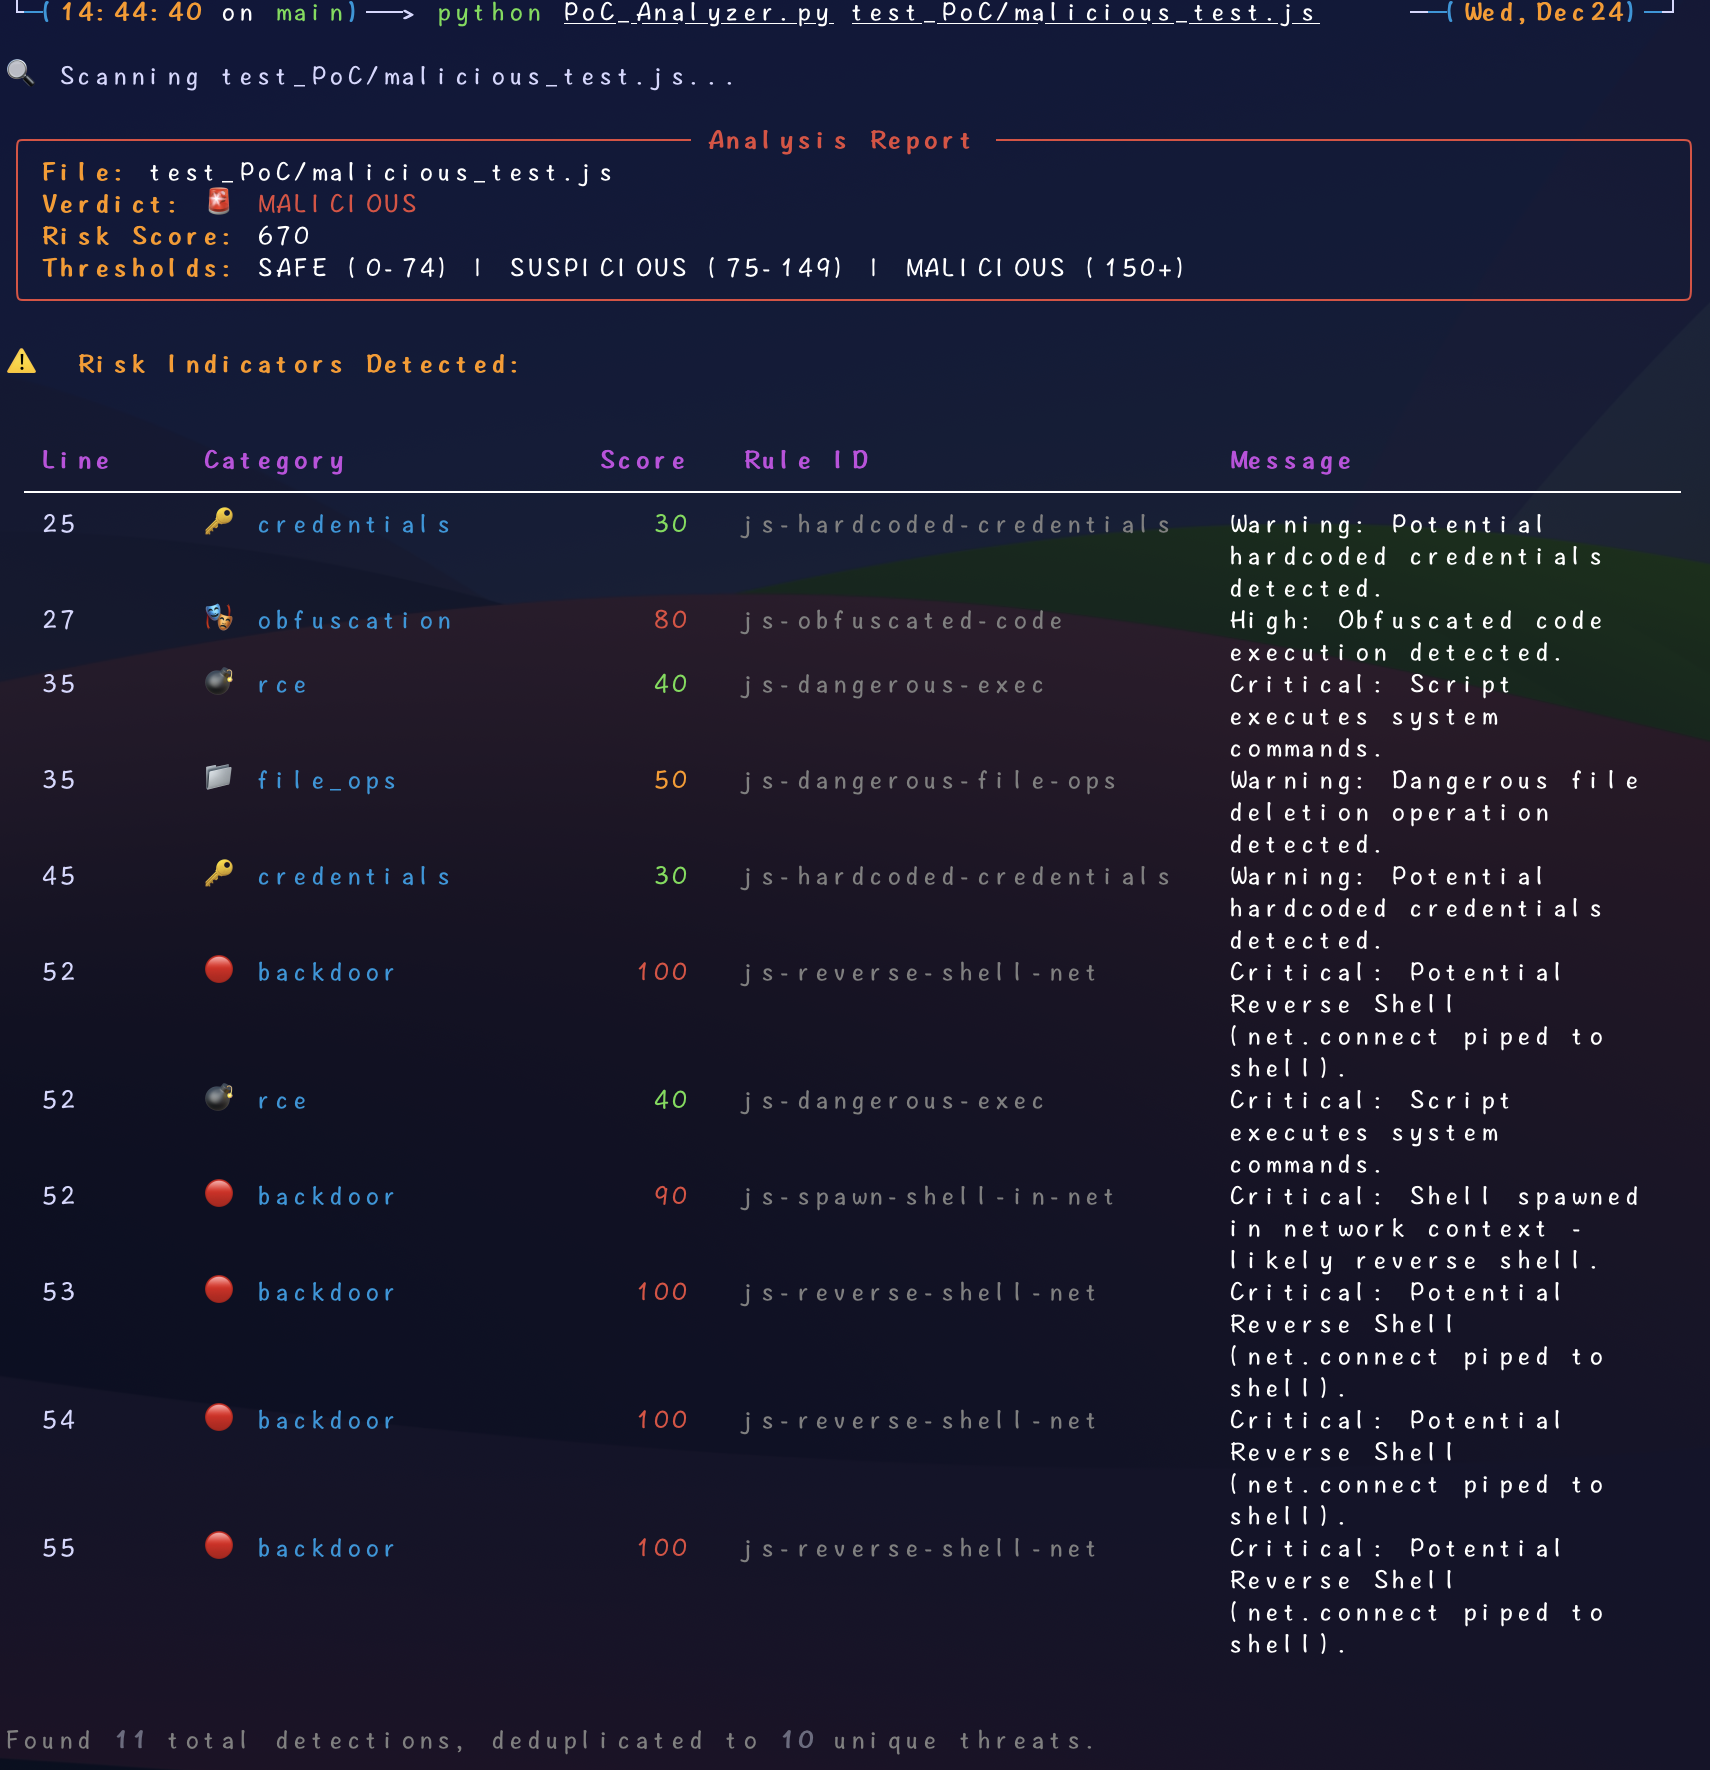
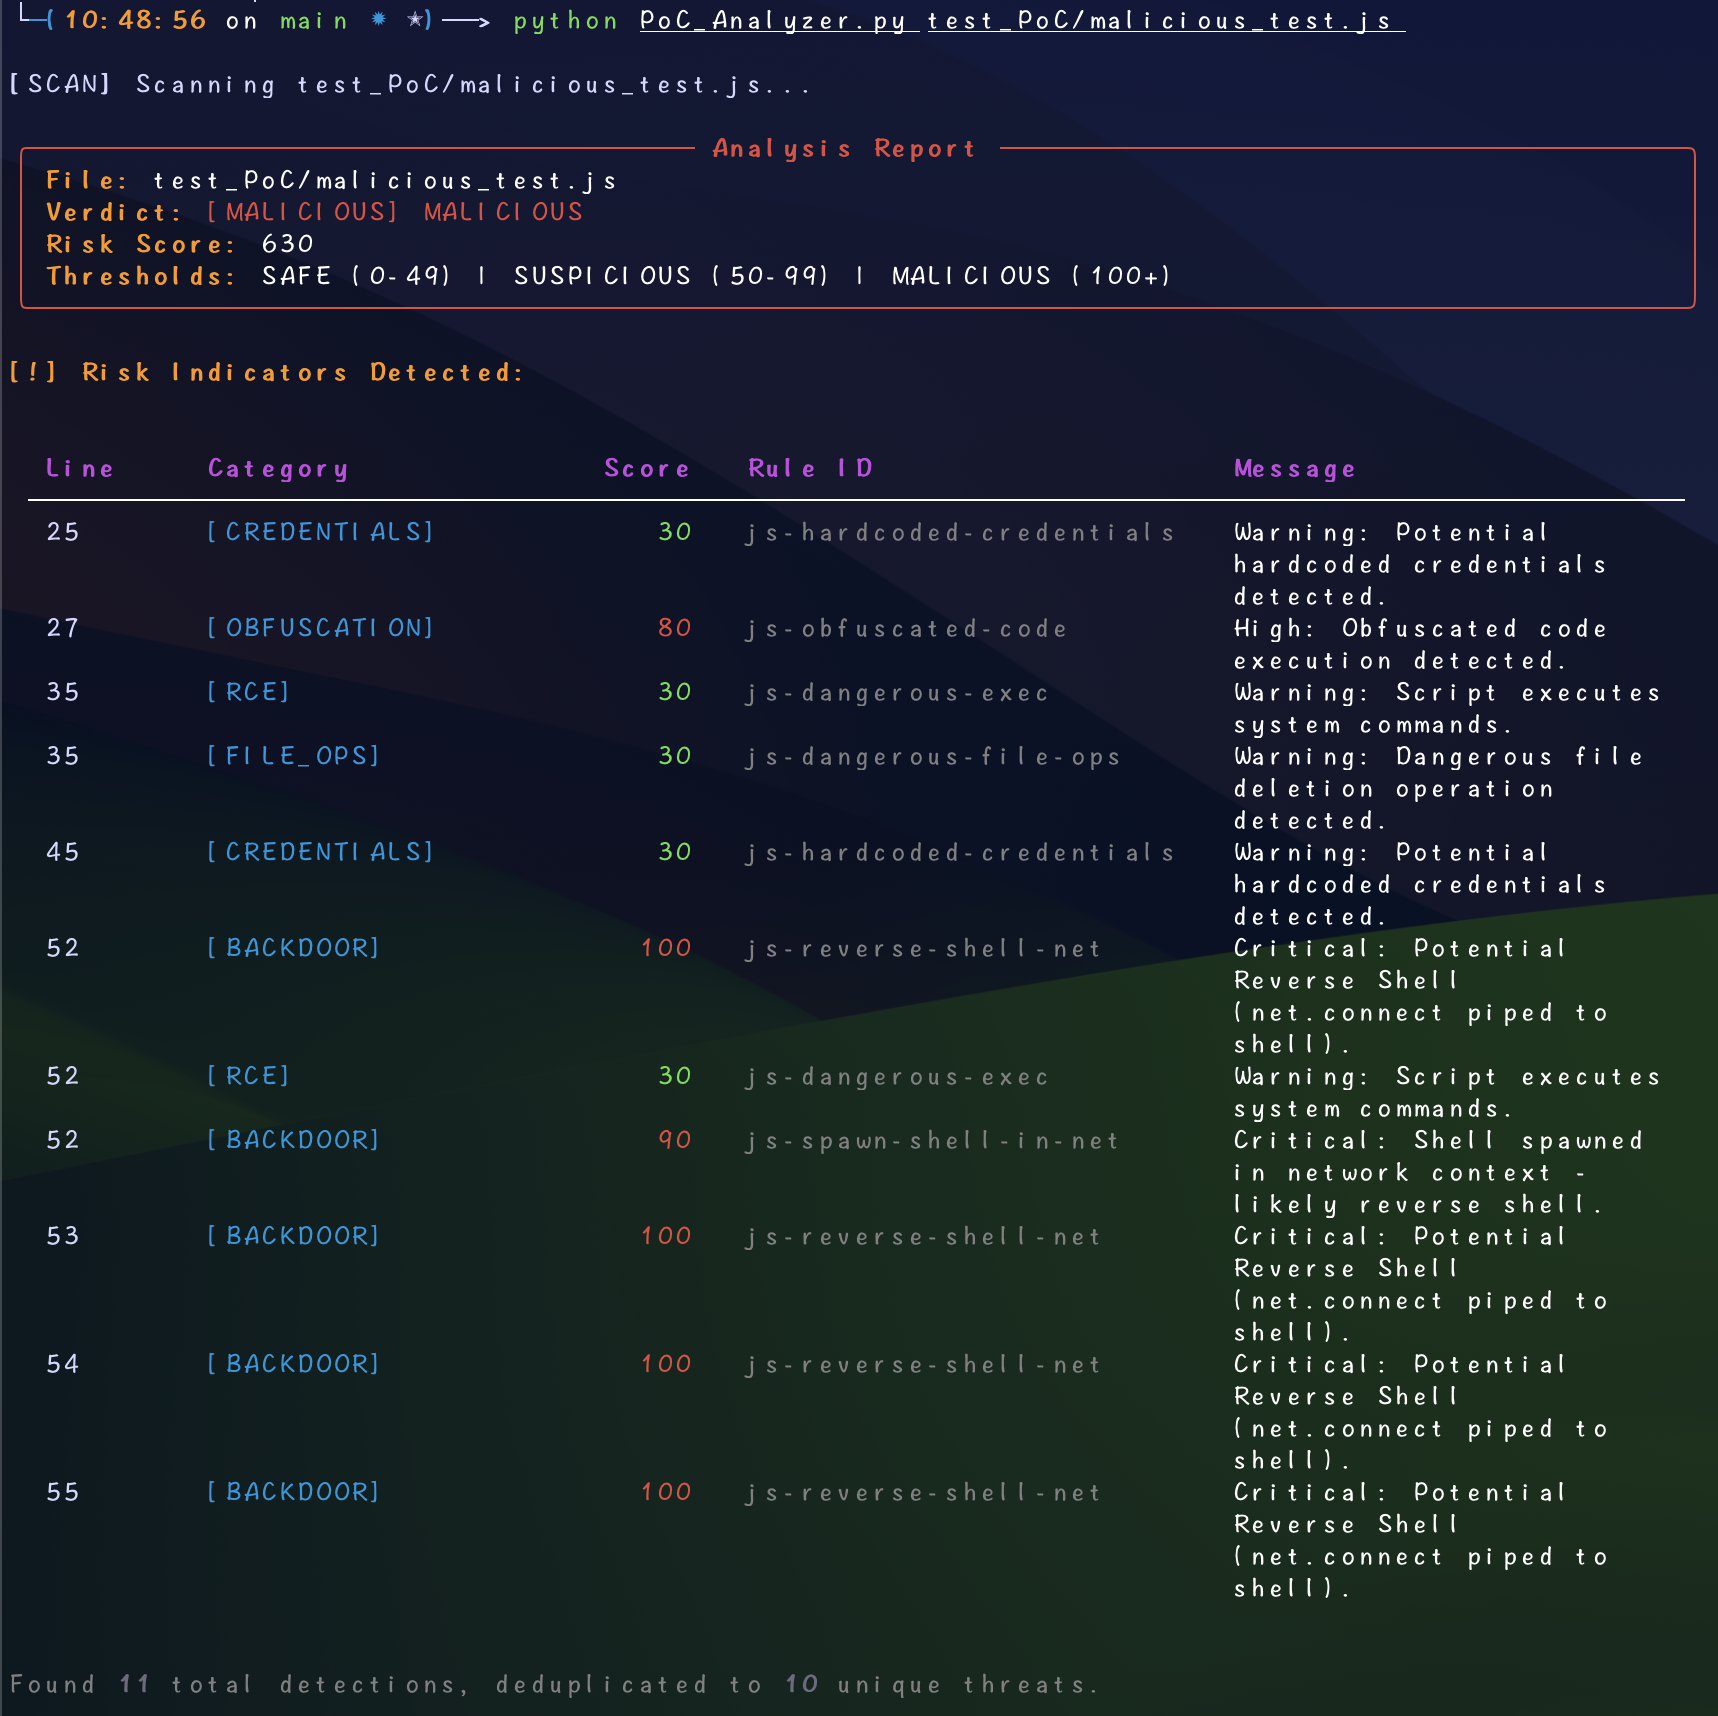
Add: Dockerfile && Update README

diff --git a/PoC_Analyzer.py b/PoC_Analyzer.py
@@ -62,7 +62,7 @@ class PoCAnalyzer:
             self.rule_config = os.path.join("rules", rule_config)
         else:
             self.rule_config = rule_config
-            console.print(f"[yellow]⚠ Warning: Config '{rule_config}' not found locally or in rules/ dir.[/yellow]")
+            console.print(f"[yellow][WARNING] Warning: Config '{rule_config}' not found locally or in rules/ dir.[/yellow]")
 
         self.threshold = threshold
         self.valid_extensions: Set[str] = self.DEFAULT_EXTENSIONS
@@ -224,7 +224,7 @@ class PoCAnalyzer:
         """Recursively scan a directory."""
         if console is None: console = Console()
         
-        console.print(f"\n[bold cyan]📂 Scanning Directory: {directory}[/bold cyan]\n")
+        console.print(f"\n[bold cyan][DIRECTORY] Scanning Directory: {directory}[/bold cyan]\n")
         
         stats = {"MALICIOUS": 0, "SUSPICIOUS": 0, "SAFE": 0, "SKIPPED": 0}
         results = []
@@ -249,7 +249,7 @@ class PoCAnalyzer:
 
         # Print Summary Table at the end
         if results:
-            console.print("\n[bold]📊 Directory Scan Summary[/bold]")
+            console.print("\n[bold][SUMMARY] Directory Scan Summary[/bold]")
             summary_table = Table(box=box.SIMPLE_HEAD)
             summary_table.add_column("File", style="cyan")
             summary_table.add_column("Verdict", justify="center")
@@ -275,11 +275,11 @@ class PoCAnalyzer:
         console.print(f"\n[dim]Scanned {total} files.[/dim]")
         
         if stats["MALICIOUS"] > 0:
-            console.print(f"[bold red]🚨 Directory Scan Complete: Found {stats['MALICIOUS']} malicious files![/bold red]")
+            console.print(f"[bold red][MALICIOUS] Directory Scan Complete: Found {stats['MALICIOUS']} malicious files![/bold red]")
         elif stats["SUSPICIOUS"] > 0:
-            console.print(f"[bold yellow]⚠  Directory Scan Complete: Found {stats['SUSPICIOUS']} suspicious files.[/bold yellow]")
+            console.print(f"[bold yellow][WARNING] Directory Scan Complete: Found {stats['SUSPICIOUS']} suspicious files.[/bold yellow]")
         else:
-            console.print(f"[bold green]✅ Directory Scan Complete: No threats found.[/bold green]")
+            console.print(f"[bold green][SAFE] Directory Scan Complete: No threats found.[/bold green]")
         
         return results
 
@@ -300,13 +300,13 @@ class PoCAnalyzer:
         
         if verdict == "MALICIOUS":
             verdict_color = "red"
-            verdict_icon = "🚨"
+            verdict_icon = "[MALICIOUS]"
         elif verdict == "SUSPICIOUS":
             verdict_color = "yellow"
-            verdict_icon = "⚠"
+            verdict_icon = "[SUSPICIOUS]"
         else:
             verdict_color = "green"
-            verdict_icon = "✅"
+            verdict_icon = "[SAFE]"
         
         # Create summary panel
         summary = f"""[bold]File:[/bold] {report['filepath']}
@@ -317,7 +317,7 @@ class PoCAnalyzer:
         console.print(Panel(summary, title="[bold]Analysis Report[/bold]", border_style=verdict_color, box=box.ROUNDED))
         
         if report['findings']:
-            console.print(f"\n[bold yellow]⚠  Risk Indicators Detected:[/bold yellow]\n")
+            console.print(f"\n[bold yellow][!] Risk Indicators Detected:[/bold yellow]\n")
             
             # Create findings table
             table = Table(show_header=True, header_style="bold magenta", box=box.SIMPLE)
@@ -338,22 +338,22 @@ class PoCAnalyzer:
                 
                 # Category emoji
                 category_map = {
-                    "backdoor": "🔴 backdoor",
-                    "rce": "💣 rce",
-                    "obfuscation": "🎭 obfuscation",
-                    "file_manipulation": "📁 file_ops",
-                    "credential_leak": "🔑 credentials",
-                    "deserialization": "⚠ deserialize",
-                    "code_injection": "💉 code_inject",
-                    "network": "🌐 network",
-                    "info_leak": "ℹ info_leak",
-                    "abuse": "🚫 abuse",
-                    "memory_corruption": "💥 memory",
-                    "privilege_escalation": "👑 priv_esc",
-                    "evasion": "🥷 evasion",
-                    "weak_crypto": "🔓 weak_crypto",
-                    "sql_injection": "💉 sql_inject",
-                    "xxe": "📄 xxe"
+                    "backdoor": "[BACKDOOR]",
+                    "rce": "[RCE]",
+                    "obfuscation": "[OBFUSCATION]",
+                    "file_manipulation": "[FILE_OPS]",
+                    "credential_leak": "[CREDENTIALS]",
+                    "deserialization": "[DESERIALIZATION]",
+                    "code_injection": "[CODE_INJECTION]",
+                    "network": "[NETWORK]",
+                    "info_leak": "[INFO_LEAK]",
+                    "abuse": "[ABUSE]",
+                    "memory_corruption": "[MEMORY]",
+                    "privilege_escalation": "[PRIV_ESC]",
+                    "evasion": "[EVASION]",
+                    "weak_crypto": "[WEAK_CRYPTO]",
+                    "sql_injection": "[SQL_INJECTION]",
+                    "xxe": "[XXE]"
                 }
                 category_display = category_map.get(f['category'], f['category'])
                 
@@ -373,7 +373,7 @@ class PoCAnalyzer:
             dedup_info = f"[dim]Found {total_count} total detections, deduplicated to {unique_count} unique threats.[/dim]"
             console.print(f"\n{dedup_info}\n")
         else:
-            console.print("\n[green]✅ No threats detected.[/green]\n")
+            console.print("\n[green][SAFE] No threats detected.[/green]\n")
     
     def print_directory_summary(self, reports: list[Dict[str, Any]], console: Console = None):
         """
@@ -407,7 +407,7 @@ class PoCAnalyzer:
                 safe_files += 1
         
         if not has_findings:
-            console.print("[green]✅ No individual threats to report.[/green]\n")
+            console.print("[green][SAFE] No individual threats to report.[/green]\n")
 
         # Then, print a final directory summary
         summary = f"""[bold]Total Files Scanned:[/bold] {total_files}
@@ -433,7 +433,7 @@ class PoCAnalyzer:
         if console is None:
             console = Console()
         
-        console.print(f"\n[cyan]🔍 Scanning {filepath}...[/cyan]\n")
+        console.print(f"\n[cyan][SCAN] Scanning {filepath}...[/cyan]\n")
         
         try:
             if os.path.isdir(filepath):
@@ -443,7 +443,7 @@ class PoCAnalyzer:
                 self.print_report(report, console)
                 return report
         except Exception as e:
-            console.print(f"[bold red]❌ Scan failed: {e}[/bold red]")
+            console.print(f"[bold red][ERROR] Scan failed: {e}[/bold red]")
             raise
 
 def parse_arguments():
@@ -490,7 +490,7 @@ if __name__ == "__main__":
     
     # Check if file exists
     if not os.path.exists(args.filepath):
-        console.print(f"[bold red]❌ Error: File '{args.filepath}' not found.[/bold red]")
+        console.print(f"[bold red][ERROR] Error: File '{args.filepath}' not found.[/bold red]")
         exit(1)
     
     config_path = args.config if args.config else "rules/"
@@ -501,7 +501,7 @@ if __name__ == "__main__":
     # If --all-rules is set, clear the mapping to force full scan
     if args.all_rules:
         engine.RULE_MAPPING = {}
-        console.print("[yellow]⚠  Deep Scan Mode: Using ALL rules for analysis.[/yellow]")
+        console.print("[yellow][WARNING] Deep Scan Mode: Using ALL rules for analysis.[/yellow]")
 
     # Scan and print report
     try:

diff --git a/README.md b/README.md
@@ -1,6 +1,6 @@
 # PoC Analyzer (Proof-of-Concept Malicious Intent Detector)
 
-![Python](https://img.shields.io/badge/Python-3.8%2B-blue?logo=python) ![Semgrep](https://img.shields.io/badge/Engine-Semgrep-green) ![License](https://img.shields.io/badge/License-MIT-purple) ![Status](https://img.shields.io/badge/Status-Beta-orange)
+![Python](https://img.shields.io/badge/Python-3.11%2B-blue?logo=python) ![Semgrep](https://img.shields.io/badge/Engine-Semgrep-green) ![License](https://img.shields.io/badge/License-MIT-purple) ![Status](https://img.shields.io/badge/Status-Beta-orange)
 
 Unlike traditional SAST tools that search for *vulnerabilities* in code, PoC Analyzer scans for **Malicious Intent**. It is built to validate third-party Proof-of-Concept (PoC) scripts downloaded from GitHub, Exploit-DB, or other public sources, ensuring they do not contain hidden backdoors, reverse shells, or malware droppers before you execute them.
 
@@ -54,9 +54,52 @@ The test cases are encrypted to prevent antivirus false positives. Unzip test_sa
 
 ---
 
-## Installation
+## Docker Usage (Recommended)
 
-### Prerequisites
+Running PoC Analyzer in an isolated container is the safest way to handle potential malicious samples and avoids local dependency issues.
+
+### 1. Build the Image
+
+Build the Docker image from the source directory.
+
+> **Note:** Ensure `test_samples.zip` exists in the directory before running the build command.
+
+```bash
+docker build -t poc-analyzer .
+```
+
+### 2. Run Scenarios
+
+**Scenario A: View Help (Default)**
+Running the container without arguments will display the help menu.
+
+```bash
+docker run --rm poc-analyzer
+```
+
+**Scenario B: Scan Internal Test Samples**
+The image comes with pre-packaged test samples (extracted during the build process). You can test the analyzer against them immediately.
+
+```bash
+docker run --rm poc-analyzer test_PoC/malicious_test.js
+```
+
+**Scenario C: Scan Local Files (Recommended)**
+To scan files on your host machine, mount your current directory (`$(pwd)`) to a volume inside the container (e.g., `/scan`).
+
+```bash
+# Scan a specific file
+docker run --rm -v "$(pwd):/scan" poc-analyzer /scan/poc.py
+
+# Scan an entire directory
+docker run --rm -v "$(pwd):/scan" poc-analyzer /scan/
+```
+
+---
+
+## Local Installation
+
+If you prefer running it natively:
 
 1. **Clone the repository:**
 ```bash
@@ -64,14 +107,16 @@ git clone https://github.com/Y-T-T/PoC-Analyzer.git
 cd PoC-Analyzer
 ```
 
-2. **Install dependencies:**
+2. **Install dependencies:** Ensure you have Python 3.11+ and Semgrep installed.
 ```bash
 pip install -r requirements.txt
 ```
 
-## Usage
+3. **Run the analyzer:** See the usage examples below.
 
-### 1. Basic Scan (Recommended)
+## Advanced Usage
+
+### 1. Basic Scan
 
 By default, the analyzer scans the target file using all rules found in the local `rules/` directory. It automatically filters rules based on the file extension.
 
